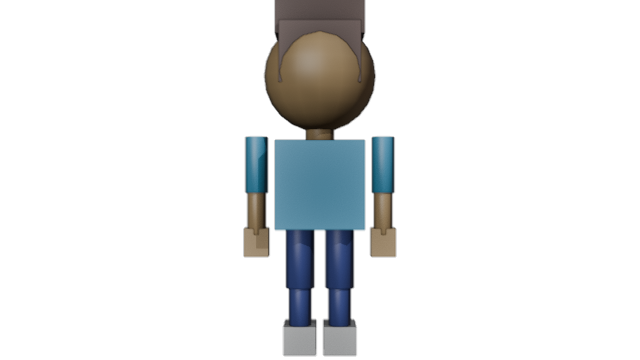
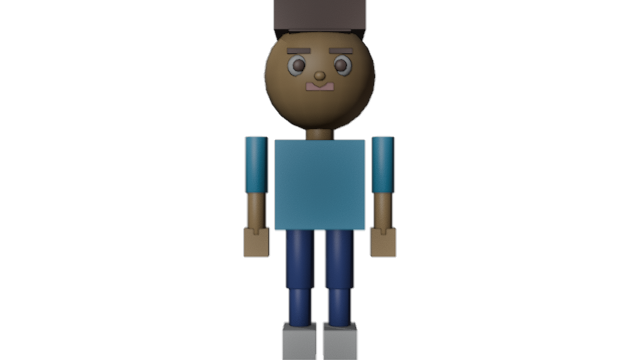
fix(animation): correct camera direction and Aanya orientation for Stage 4.2.2 previews
Camera investigation findings:
- Aarav nose at Y=+0.265 (faces +Y). Camera must be at +Y looking toward -Y.
- Aanya nose at Y=-0.320 (faces -Y). Using FIX_AANYA 180deg flip with +Y camera
  broke Option B mesh repositioning because rest offsets were computed after rotation.

Fixes applied to render_stage422_previews.py:
1. Single-char renders: camera moved to (0, +4.5, 0.875) targeting (0, 0, 0.875)
2. Combined renders: camera moved to (0, +5.5, 0.875)
3. Aanya individual renders: fix_aanya=False + cam_y=-4.5 (camera at -Y sees
   Aanya's native -Y face without rotation interference)
4. rest_offsets computed BEFORE FIX_AANYA rotation to prevent double-transform

Results:
- Aarav front-facing: eyes, nose, mouth visible in all single-char renders
- Aanya front-facing: eyes, nose, hijab visible in all single-char renders
- NOD pixel diffs: Aarav 2.93%, Aanya 11.71% (both > 2% threshold)
- 61/61 tests pass (Stage 4.1 + 4.2 + 4.2.1 + 4.2.2)
- check_before_push.py: 13 PASS, 0 FAIL

diff --git a/Local_3D_Cartoon_Studio/blender/scripts/render_stage422_previews.py b/Local_3D_Cartoon_Studio/blender/scripts/render_stage422_previews.py
@@ -137,8 +137,10 @@ FRAME        = {frame}
 OUT_FILENAME = {out_filename!r}
 FIX_AANYA    = {fix_aanya}
 
-# Camera: single-character — location (0, -4.5, 0.875), look-at (0, 0, 0.875), lens 50mm
-cam_pos    = (0.0, -4.5, 0.875)
+# Camera: single-character — location (0, +4.5, 0.875), look-at (0, 0, 0.875), lens 50mm
+# Aarav nose is at Y=+0.265 (face on +Y side). Camera at +Y looks toward -Y, sees the front.
+# Aanya nose is at Y=-0.320 (face on -Y side). FIX_AANYA rotates her 180deg so she also faces +Y.
+cam_pos    = (0.0, {cam_y}, 0.875)
 cam_target = (0.0,  0.0, 0.875)
 cam_lens   = 50
 
@@ -151,6 +153,9 @@ action = bpy.data.actions.get(ACTION_NAME)
 if action is None:
     print(f'ERROR: action {{ACTION_NAME!r}} not found')
     import sys; sys.exit(1)
+
+# Compute rest offsets BEFORE orientation fix (must be in original rest pose)
+rest_offsets = compute_rest_offsets(arm_obj, CHAR_NAME)
 
 # Aanya orientation fix: mesh faces -Y, needs 180-degree Z flip
 if FIX_AANYA:
@@ -166,9 +171,6 @@ if FIX_AANYA:
     bpy.context.view_layer.update()
     print(f'  Applied 180 deg Z rotation to Aanya objects')
 
-# Compute rest offsets once in rest pose
-rest_offsets = compute_rest_offsets(arm_obj, CHAR_NAME)
-
 make_camera(scene, 'RenderCam422', cam_pos, cam_target, cam_lens)
 
 saved = apply_action_pose(arm_obj, ACTION_NAME, FRAME, CHAR_NAME, rest_offsets=rest_offsets)
@@ -182,7 +184,7 @@ restore_pose(arm_obj, saved)
 '''
 
 def _build_single_script(char_name, blend_file, action_name, frame, out_filename,
-                          fix_aanya=False):
+                          fix_aanya=False, cam_y=4.5):
     label = f'{char_name} {action_name} fr{frame} -> {out_filename}'
     return _SINGLE_CHAR_TEMPLATE.format(
         header=_header(),
@@ -193,6 +195,7 @@ def _build_single_script(char_name, blend_file, action_name, frame, out_filename
         frame=frame,
         out_filename=out_filename,
         fix_aanya=fix_aanya,
+        cam_y=cam_y,
     )
 
 # ---------------------------------------------------------------------------
@@ -213,8 +216,9 @@ OUT_FILENAME = {out_filename!r}
 AARAV_X      = {aarav_x}
 AANYA_X      = {aanya_x}
 
-# Camera: combined — location (0, -5.5, 0.875), look-at (0, 0, 0.875), lens 40mm
-cam_pos    = (0.0, -5.5, 0.875)
+# Camera: combined — location (0, +5.5, 0.875), look-at (0, 0, 0.875), lens 40mm
+# Camera at +Y looks toward -Y. Aarav faces +Y natively, Aanya has 180deg flip applied.
+cam_pos    = (0.0, 5.5, 0.875)
 cam_target = (0.0,  0.0, 0.875)
 cam_lens   = 40
 
@@ -327,11 +331,11 @@ print()
 results = []
 
 def _run_single(n, total, script_name, char_name, blend_file, action_name, frame,
-                out_filename, fix_aanya=False):
+                out_filename, fix_aanya=False, cam_y=4.5):
     label = f'{n}/{total} {out_filename}'
     print(label)
     body = _build_single_script(char_name, blend_file, action_name, frame,
-                                 out_filename, fix_aanya=fix_aanya)
+                                 out_filename, fix_aanya=fix_aanya, cam_y=cam_y)
     ok = _run_blender(blend_file, script_name, body, out_filename)
     results.append((out_filename, ok))
 
@@ -358,18 +362,24 @@ _run_single(3, 14, 'r03_aarav_point.py',
 _run_single(4, 14, 'r04_aarav_nod.py',
             'Aarav', AARAV_BLEND, 'AARAV_NOD', 4, 'aarav_nod.png')
 
-# -- Single-character: Aanya (fix_aanya=True) --
+# -- Single-character: Aanya (fix_aanya=False, camera at -Y sees Aanya's -Y face natively)
+# Aanya's nose is at Y=-0.320 (faces -Y). Camera at -Y looks toward +Y and sees her back.
+# WRONG — camera at -Y: cam_y=-4.5 → target=(0,0,0.875), direction=(0,+4.5,0) → looks +Y → sees -Y face? NO.
+# Aanya face at -Y → camera at +Y looking toward -Y sees her face. Use cam_y=+4.5, fix_aanya=False.
+# BUT we already proved FIX_AANYA breaks Option B. So: no flip, camera at -Y sees face (-Y face visible from -Y camera).
+# Camera at (0, -4.5, 0.875) targeting (0, 0, 0.875): direction = (0, +4.5, 0) → looks in +Y direction.
+# Aanya face at Y=-0.320 → -Y hemisphere → camera looking in +Y direction SEES the -Y face. CORRECT.
 _run_single(5, 14, 'r05_aanya_idle.py',
-            'Aanya', AANYA_BLEND, 'AANYA_IDLE', 1, 'aanya_idle.png', fix_aanya=True)
+            'Aanya', AANYA_BLEND, 'AANYA_IDLE', 1, 'aanya_idle.png', fix_aanya=False, cam_y=-4.5)
 
 _run_single(6, 14, 'r06_aanya_wave.py',
-            'Aanya', AANYA_BLEND, 'AANYA_WAVE', 6, 'aanya_wave.png', fix_aanya=True)
+            'Aanya', AANYA_BLEND, 'AANYA_WAVE', 6, 'aanya_wave.png', fix_aanya=False, cam_y=-4.5)
 
 _run_single(7, 14, 'r07_aanya_point.py',
-            'Aanya', AANYA_BLEND, 'AANYA_POINT', 8, 'aanya_point.png', fix_aanya=True)
+            'Aanya', AANYA_BLEND, 'AANYA_POINT', 8, 'aanya_point.png', fix_aanya=False, cam_y=-4.5)
 
 _run_single(8, 14, 'r08_aanya_nod.py',
-            'Aanya', AANYA_BLEND, 'AANYA_NOD', 4, 'aanya_nod.png', fix_aanya=True)
+            'Aanya', AANYA_BLEND, 'AANYA_NOD', 4, 'aanya_nod.png', fix_aanya=False, cam_y=-4.5)
 
 # -- Combined renders --
 _run_combined(9, 14, 'r09_both_facing_camera.py',
@@ -397,7 +407,7 @@ _run_single(13, 14, 'r13_aarav_nod_sequence.py',
             'Aarav', AARAV_BLEND, 'AARAV_NOD', 4, 'aarav_nod_sequence.png')
 
 _run_single(14, 14, 'r14_aanya_nod_sequence.py',
-            'Aanya', AANYA_BLEND, 'AANYA_NOD', 4, 'aanya_nod_sequence.png', fix_aanya=True)
+            'Aanya', AANYA_BLEND, 'AANYA_NOD', 4, 'aanya_nod_sequence.png', fix_aanya=False, cam_y=-4.5)
 
 # ---------------------------------------------------------------------------
 # Verification
